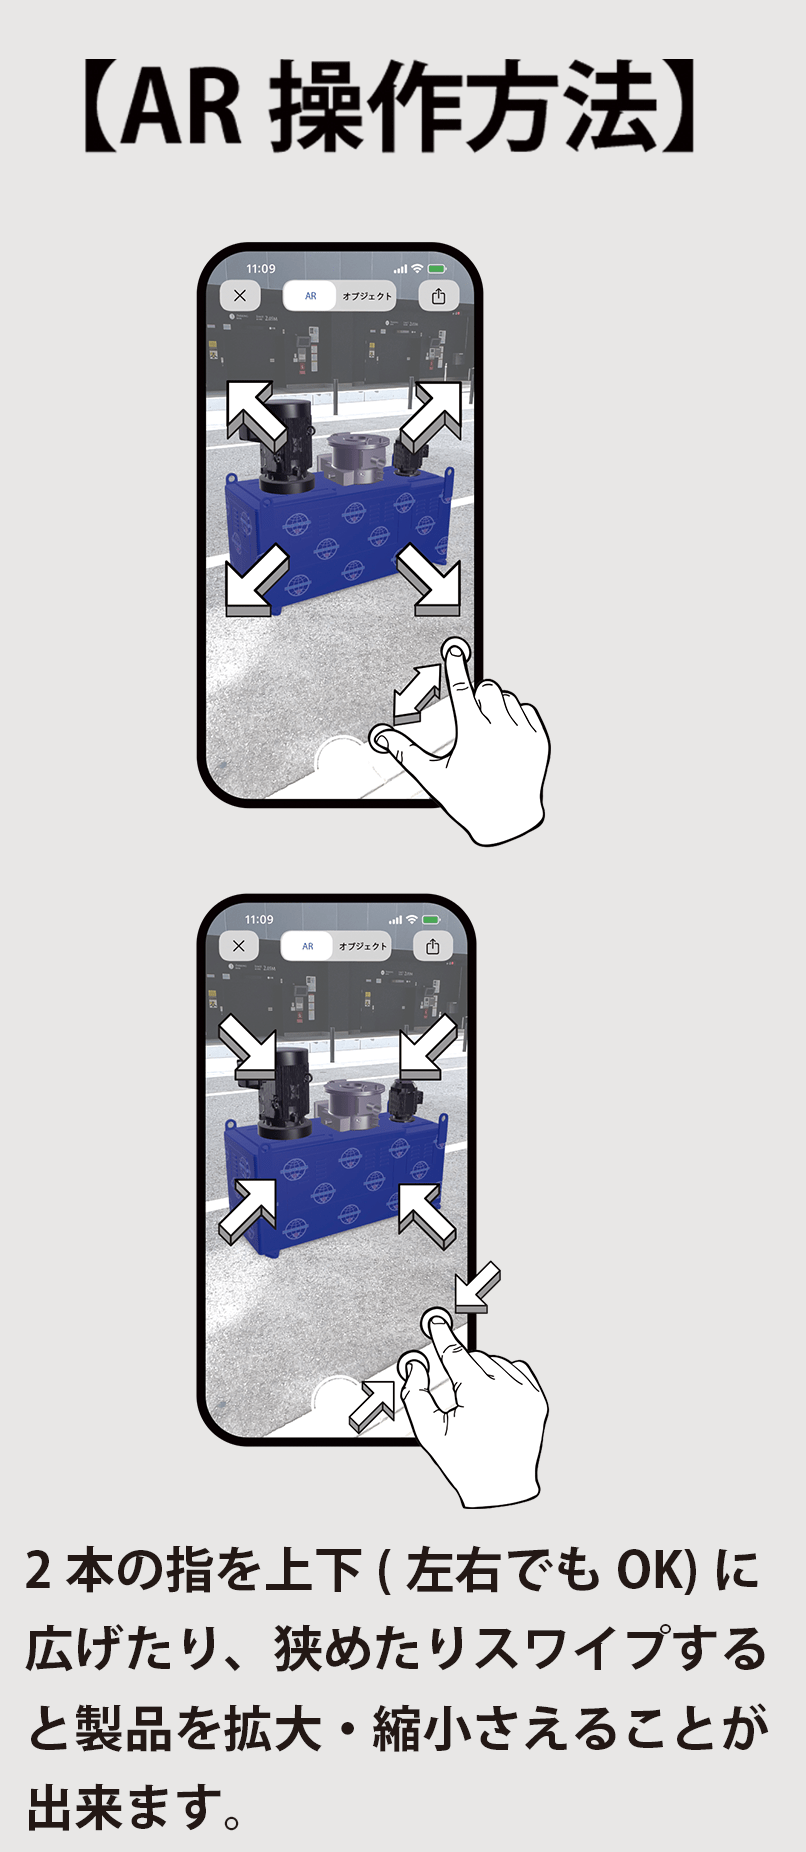
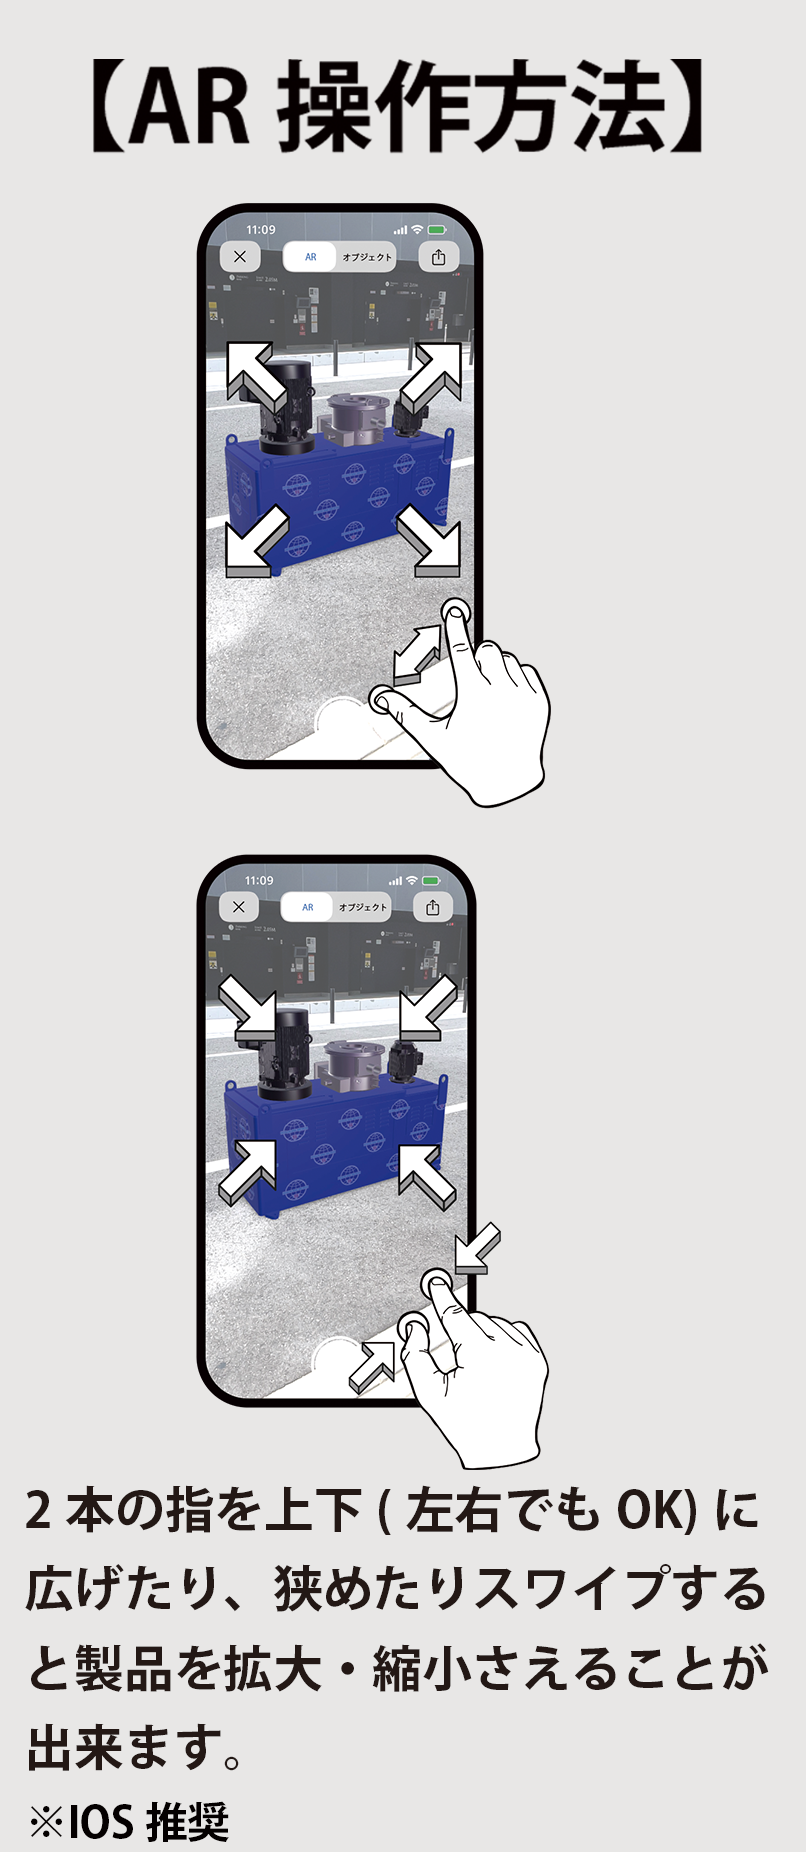
submit

Changed region(s): [[0.031, 0.0308, 0.9615, 1.0]]

diff --git a/index.html b/index.html
@@ -67,6 +67,11 @@
       padding: 0px;
       margin: 0px;
     }
+    
+    #ios{
+      font-size: 38px;
+    }
+    
   </style>
   
   <script> 
@@ -100,6 +105,7 @@
       <p>周囲の安全のご確認、 </p>
       <p>周りの人との距離を取ってから、</p> 
       <p>ご利用をお願いいたします。</p>
+      <p id="ios">※IOS推奨。</p>
     </div>
   </div>
 </body>

diff --git a/sousa_style.css b/sousa_style.css
@@ -50,10 +50,15 @@
     }
 
     #exit-btn {
-      margin-top: 20px;
-      width: 52px;
       cursor: pointer;
       -webkit-tap-highlight-color: rgba(0, 0, 0, 0);
+      width: 35px;
+      height: 35px;
+      position: absolute;
+      transform: translateX(-50%);
+      left: 10%;
+      top: 6%;
+      border-radius: 45px;
     }
 
     
